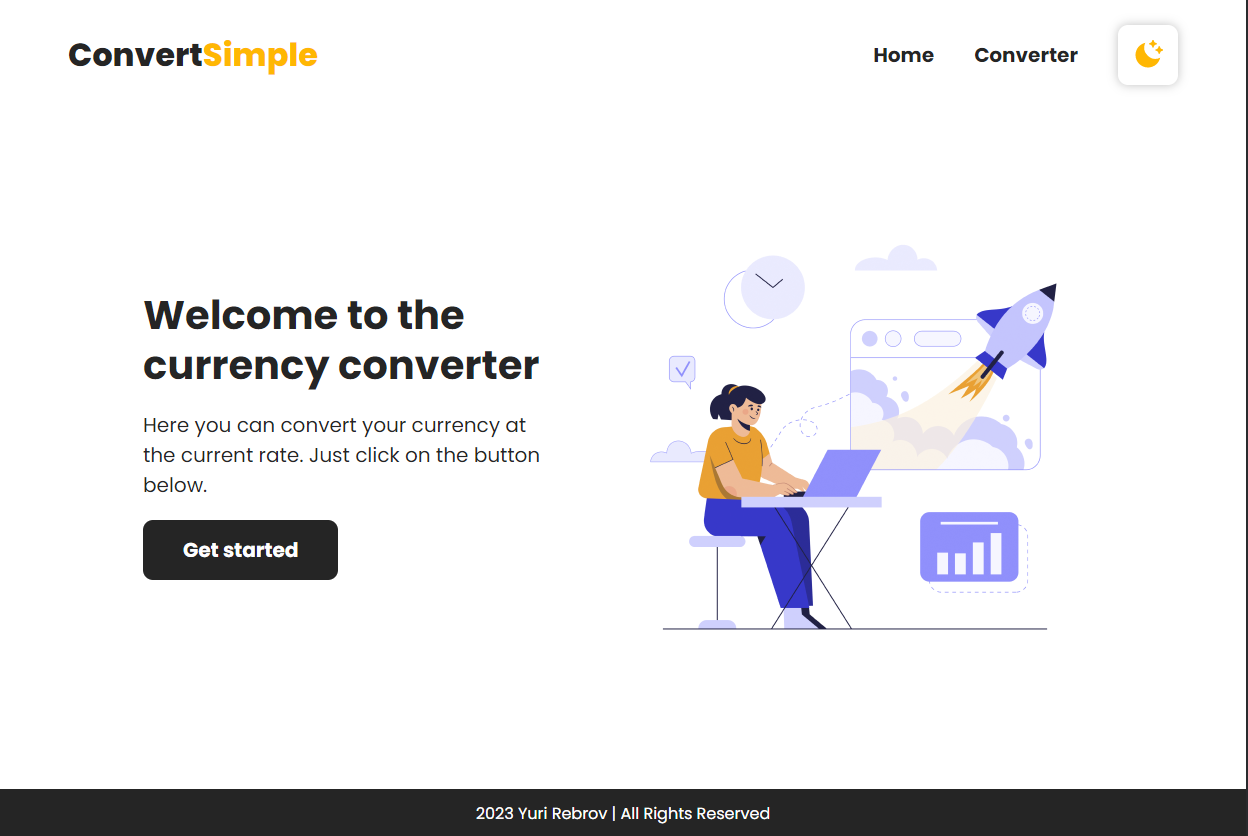
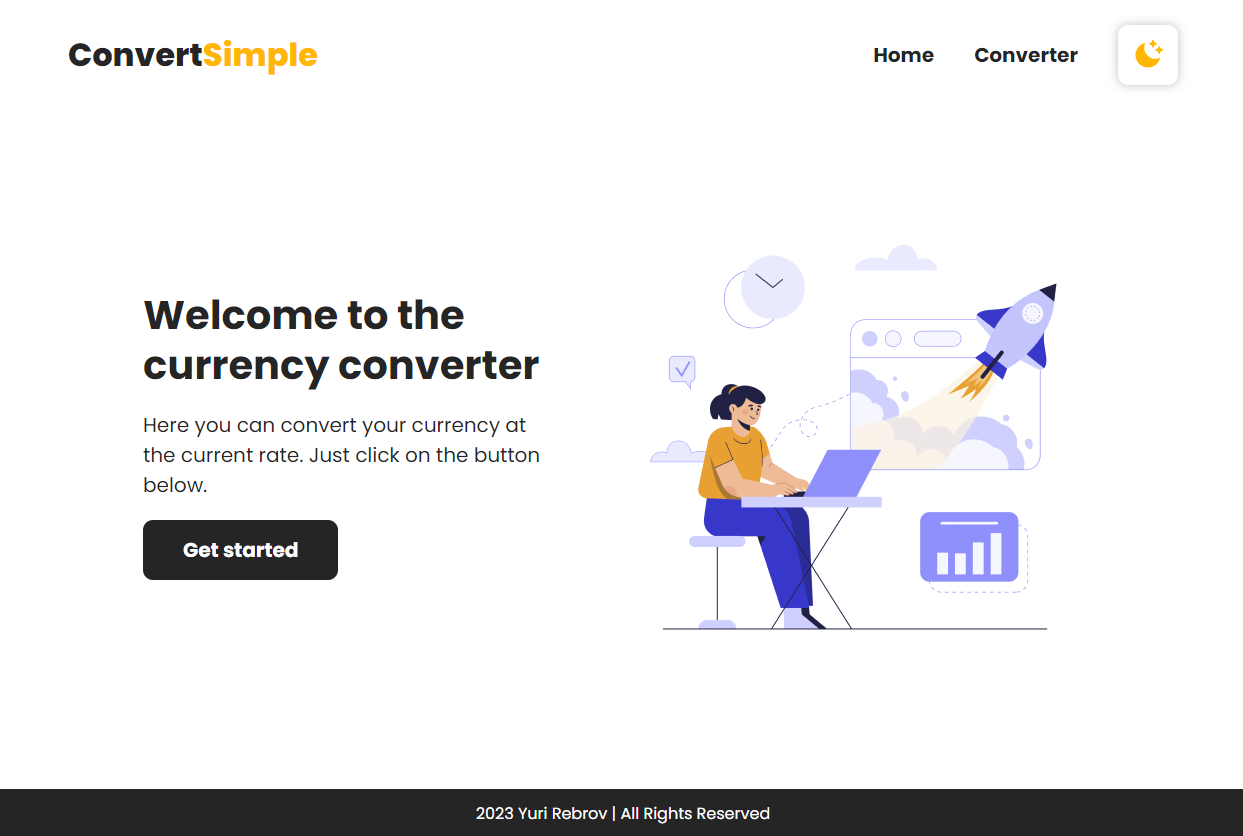
ADD: converter page

diff --git a/app/works/converter/page.tsx b/app/works/converter/page.tsx
@@ -1,12 +1,84 @@
 import Breadcrumb from "@/app/ui/Breadcrumb";
-import { ContentTitle } from "@/app/ui/Content";
+import {
+  ContentImage,
+  ContentList,
+  ContentSubTitle,
+  ContentTitle,
+  ContentWrapper,
+} from "@/app/ui/Content";
+import { MotionDiv } from "@/app/ui/Motion/MotionClient";
 import PageTransition from "@/app/ui/Motion/PageTransition";
+
+import mainPage from "@/public/works/converter.png";
+import converterPage from "@/public/works/converter1.png";
+import Link from "next/link";
+
+const variants = {
+  hidden: { opacity: 0, x: 30, y: 0 },
+  enter: { opacity: 1, x: 0, y: 0 },
+  exit: { opacity: 0, x: -30, y: 0 },
+};
 
 export default function Page() {
   return (
     <PageTransition>
       <Breadcrumb>Converter App</Breadcrumb>
       <ContentTitle text="Welcome to the Converter App!" />
+      <div className="grid grid-cols-1 md:grid-cols-2 gap-8">
+        <ContentImage src={mainPage} alt="Main page" />
+        <ContentImage src={converterPage} alt="Converter page" />
+      </div>
+      <MotionDiv
+        variants={variants}
+        initial="hidden"
+        whileInView="enter"
+        viewport={{ once: true }}
+        exit="exit"
+        transition={{ duration: 0.4, type: "easeInOut" }}
+      >
+        <ContentSubTitle text="This project has the following features" />
+        <ContentList>
+          <li>You can convert from one currency to another;</li>
+          <li>You can see exchanges rate for select currency;</li>
+          <li>Supports light/dark themes.</li>
+        </ContentList>
+      </MotionDiv>
+      <MotionDiv
+        variants={variants}
+        initial="hidden"
+        whileInView="enter"
+        viewport={{ once: true }}
+        exit="exit"
+        transition={{ duration: 0.4, type: "easeInOut" }}
+      >
+        <ContentSubTitle text="Stack" />
+        <ContentList>
+          <li>You can convert from one currency to another;</li>
+          <li>You can see exchanges rate for select currency;</li>
+          <li>Supports light/dark themes.</li>
+        </ContentList>
+      </MotionDiv>
+      <MotionDiv
+        variants={variants}
+        initial="hidden"
+        whileInView="enter"
+        viewport={{ once: true }}
+        exit="exit"
+        transition={{ duration: 0.4, type: "easeInOut" }}
+      >
+        <ContentSubTitle text="Source" />
+        <ContentList>
+          <li>
+            <Link
+              href="https://github.com/RebrovYura/currency-converter-app"
+              target="_blank"
+              className="hover:underline"
+            >
+              GitHub
+            </Link>
+          </li>
+        </ContentList>
+      </MotionDiv>
     </PageTransition>
   );
 }

diff --git a/app/works/page.tsx b/app/works/page.tsx
@@ -1,45 +1,12 @@
 import { works } from "../constants/constants";
 import Breadcrumb from "../ui/Breadcrumb";
 import { Card } from "../ui/Card";
-import BlockTransition from "../ui/Motion/BlockTransition";
 import PageTransition from "../ui/Motion/PageTransition";
 
-// import converter from "@/public/thumbs/converter.png";
-// import chat from "@/public/thumbs/chat.png";
-// import expenseTracker from "@/public/thumbs/expense-tracker.png";
-// import modernWebsite from "@/public/thumbs/modern-website.png";
-
 export default function Page() {
-  // const works = [
-  //   {
-  //     title: "Converter App",
-  //     url: "converter",
-  //     img: converter,
-  //     tags: [{ name: "react" }, { name: "api" }],
-  //   },
-  //   {
-  //     title: "Chat App",
-  //     url: "chat",
-  //     img: chat,
-  //     tags: [{ name: "react" }, { name: "firebase" }],
-  //   },
-  //   {
-  //     title: "Expense Tracker App",
-  //     url: "expense-tracker",
-  //     img: expenseTracker,
-  //     tags: [{ name: "vue" }],
-  //   },
-  //   {
-  //     title: "Modern Website",
-  //     url: "modern-website",
-  //     img: modernWebsite,
-  //     tags: [{ name: "react" }],
-  //   },
-  // ];
-
   return (
     <PageTransition>
-      <Breadcrumb></Breadcrumb>
+      <Breadcrumb />
       <div className="grid grid-cols-1 sm:grid-cols-2 md:grid-cols-1 gap-4 place-items-center">
         {works.map((item) => (
           <Card

diff --git a/app/ui/Content.tsx b/app/ui/Content.tsx
@@ -1,3 +1,4 @@
+import Image from "next/image";
 import { IChildren } from "../lib/types";
 
 type ContentTitleProps = {
@@ -20,8 +21,24 @@ export function ContentTitle({ text }: ContentTitleProps) {
   );
 }
 
+export function ContentSubTitle({ text }: ContentTitleProps) {
+  return (
+    <div className="my-6">
+      <p className="text-xl font-semibold border-b-2 text-tertiary">{text}</p>
+    </div>
+  );
+}
+
 export function ContentBox({ children }: IChildren) {
   return (
     <div className="flex flex-col max-w-[480px] pb-6 w-full">{children}</div>
   );
+}
+
+export function ContentImage({ src, alt }) {
+  return <Image src={src} alt={alt} className="rounded-[10px]" />;
+}
+
+export function ContentList({ children }: IChildren) {
+  return <ul className="list-disc flex flex-col gap-y-3 pl-8">{children}</ul>;
 }

diff --git a/app/modules/MobileMenu.tsx b/app/modules/MobileMenu.tsx
@@ -23,7 +23,7 @@ export function MobileMenu({ toggleMenu }: MobileMenuProps) {
             key={link.name}
             href={link.url}
             target={link?.target}
-            className={`${pathname === link.url ? "underline" : "no-underline"}`}
+            className={`${pathname.includes(link.url) ? "underline" : "no-underline"}`}
             onClick={toggleMenu}
           >
             {link.name}

diff --git a/app/modules/Header.tsx b/app/modules/Header.tsx
@@ -25,7 +25,7 @@ export function Header() {
             key={link.name}
             href={link.url}
             target={link?.target}
-            className={`hover:underline ${pathname === link.url ? "underline" : "no-underline"}`}
+            className={`hover:underline ${pathname.includes(link.url) ? "underline" : "no-underline"}`}
           >
             {link.name}
           </Link>

diff --git a/tailwind.config.ts b/tailwind.config.ts
@@ -11,7 +11,7 @@ const config: Config = {
       colors: {
         primary: "#FFFFFF",
         secondary: "#1E1E1E",
-        tertiary: "#FFC107",
+        tertiary: "#1976D2",
         accent: "#4CE0B3",
         warning: "#ED6A5E",
       },
